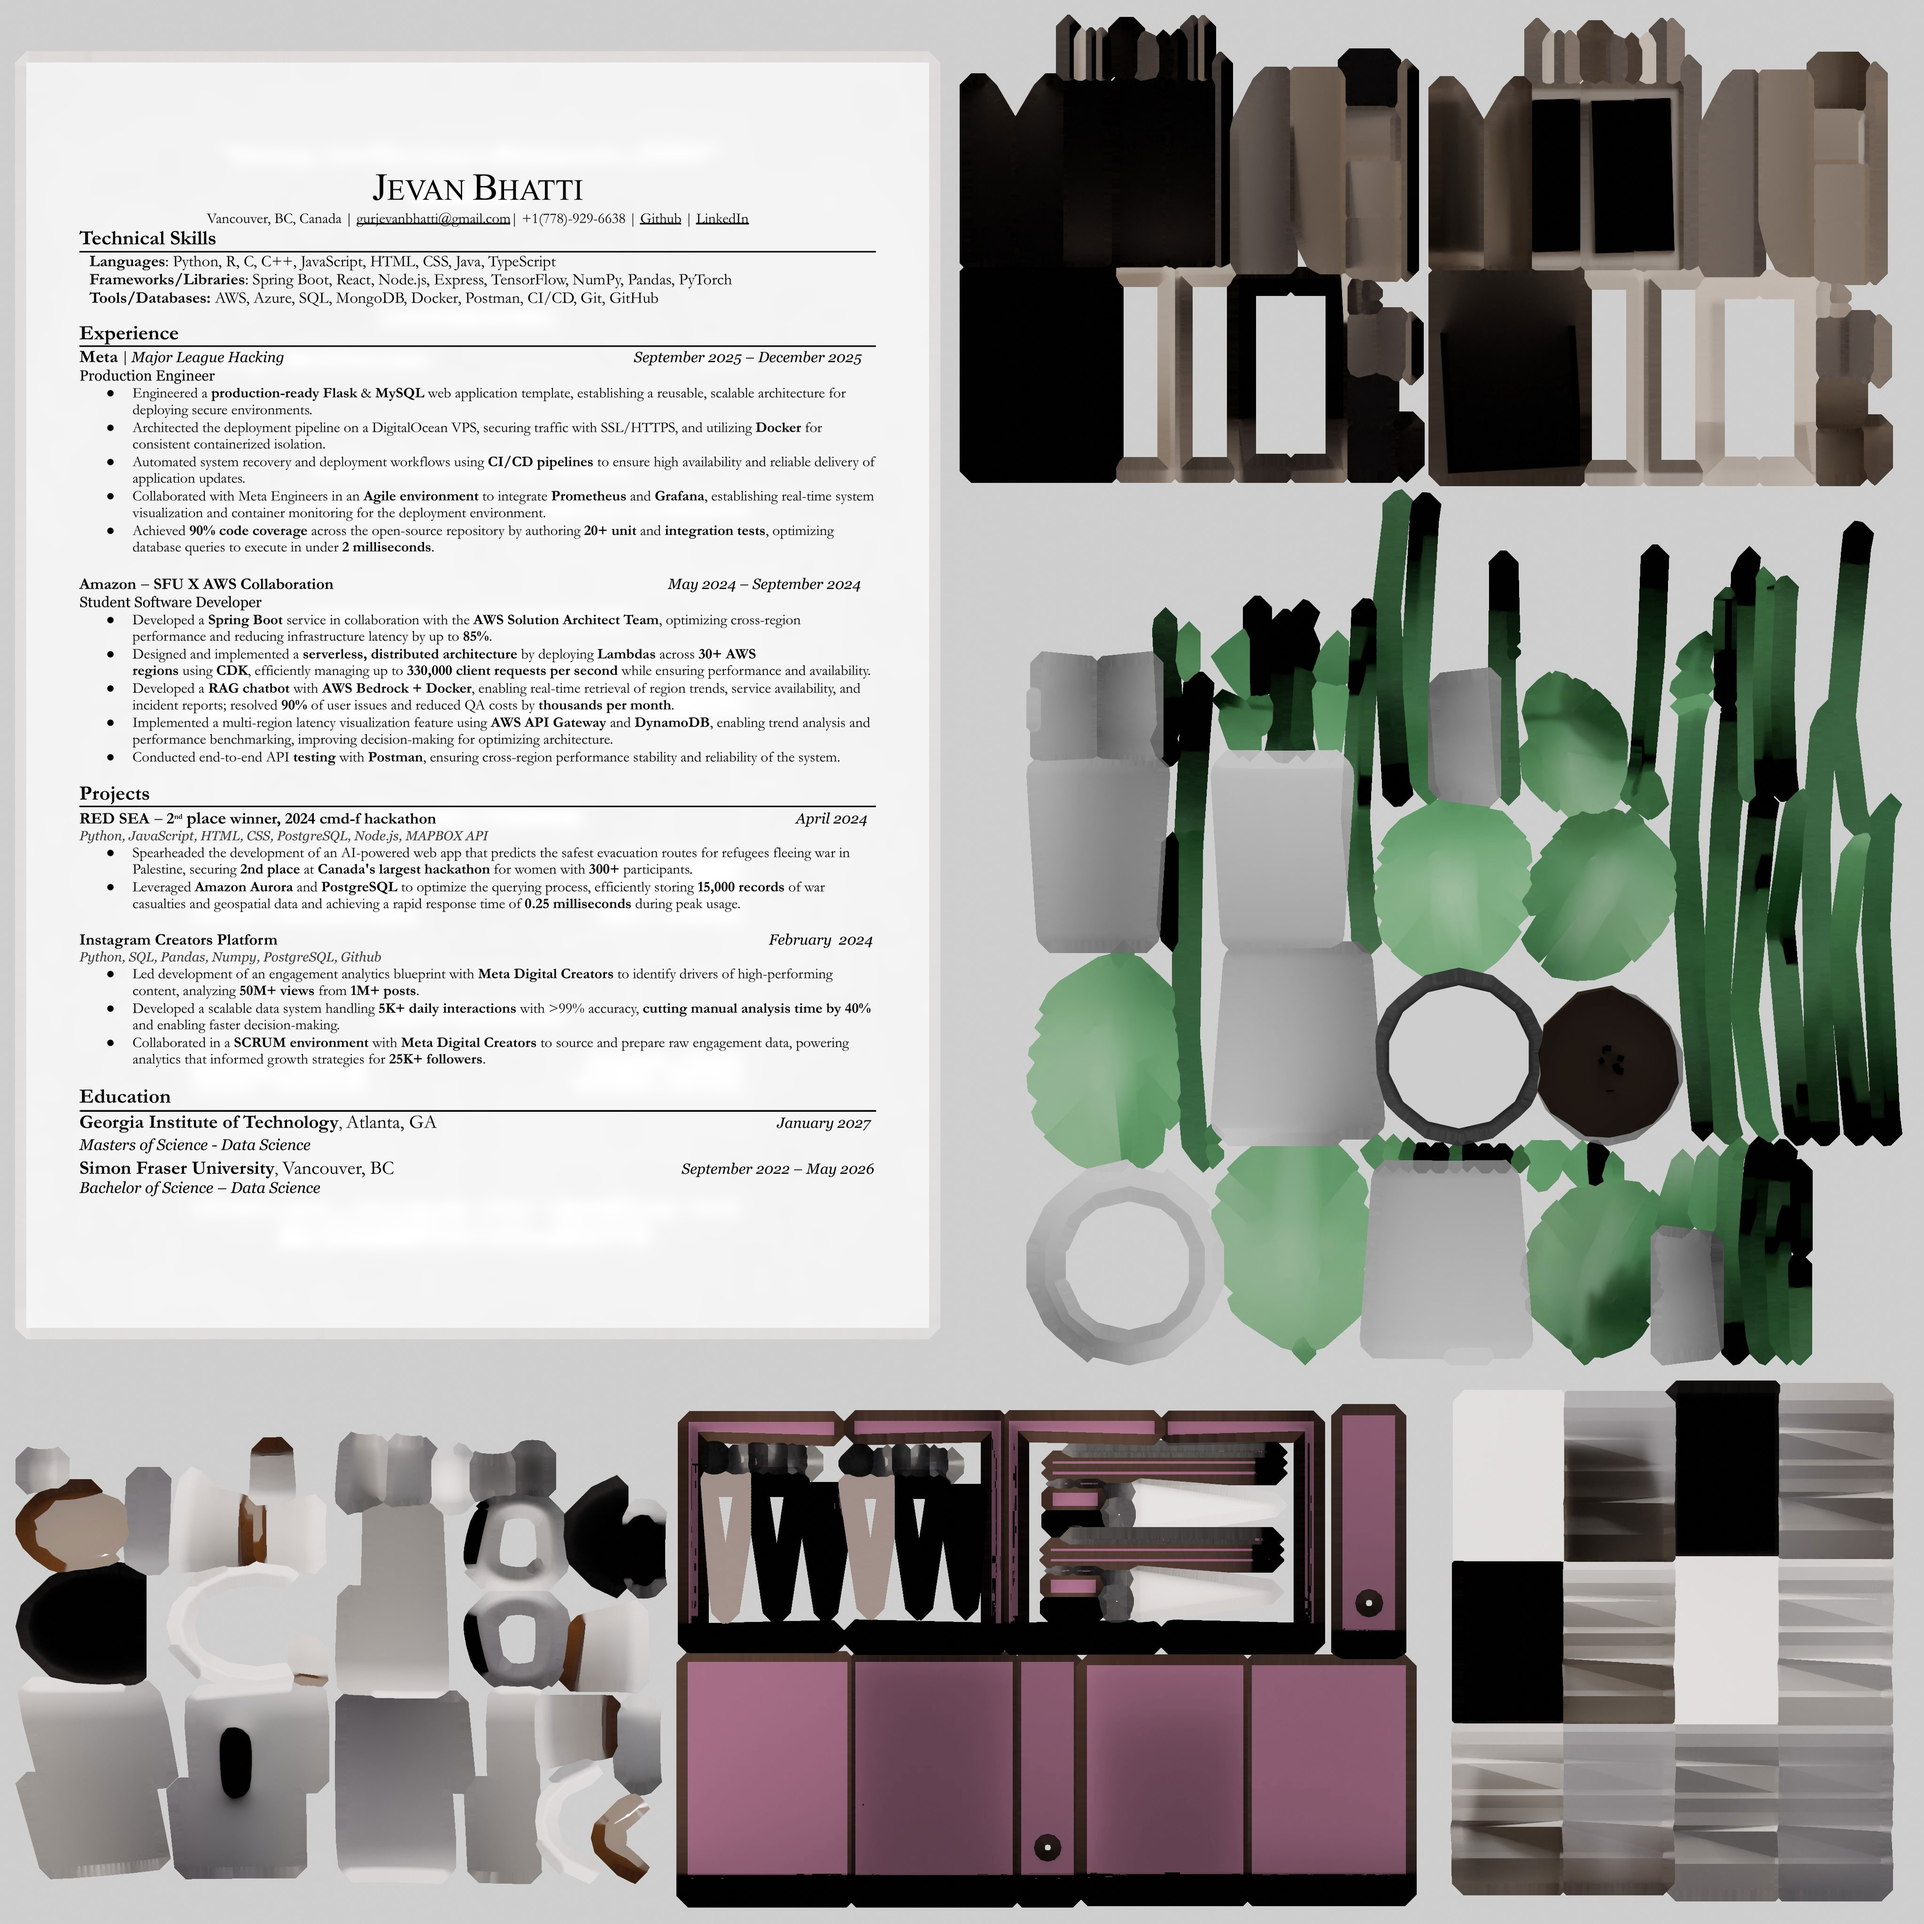
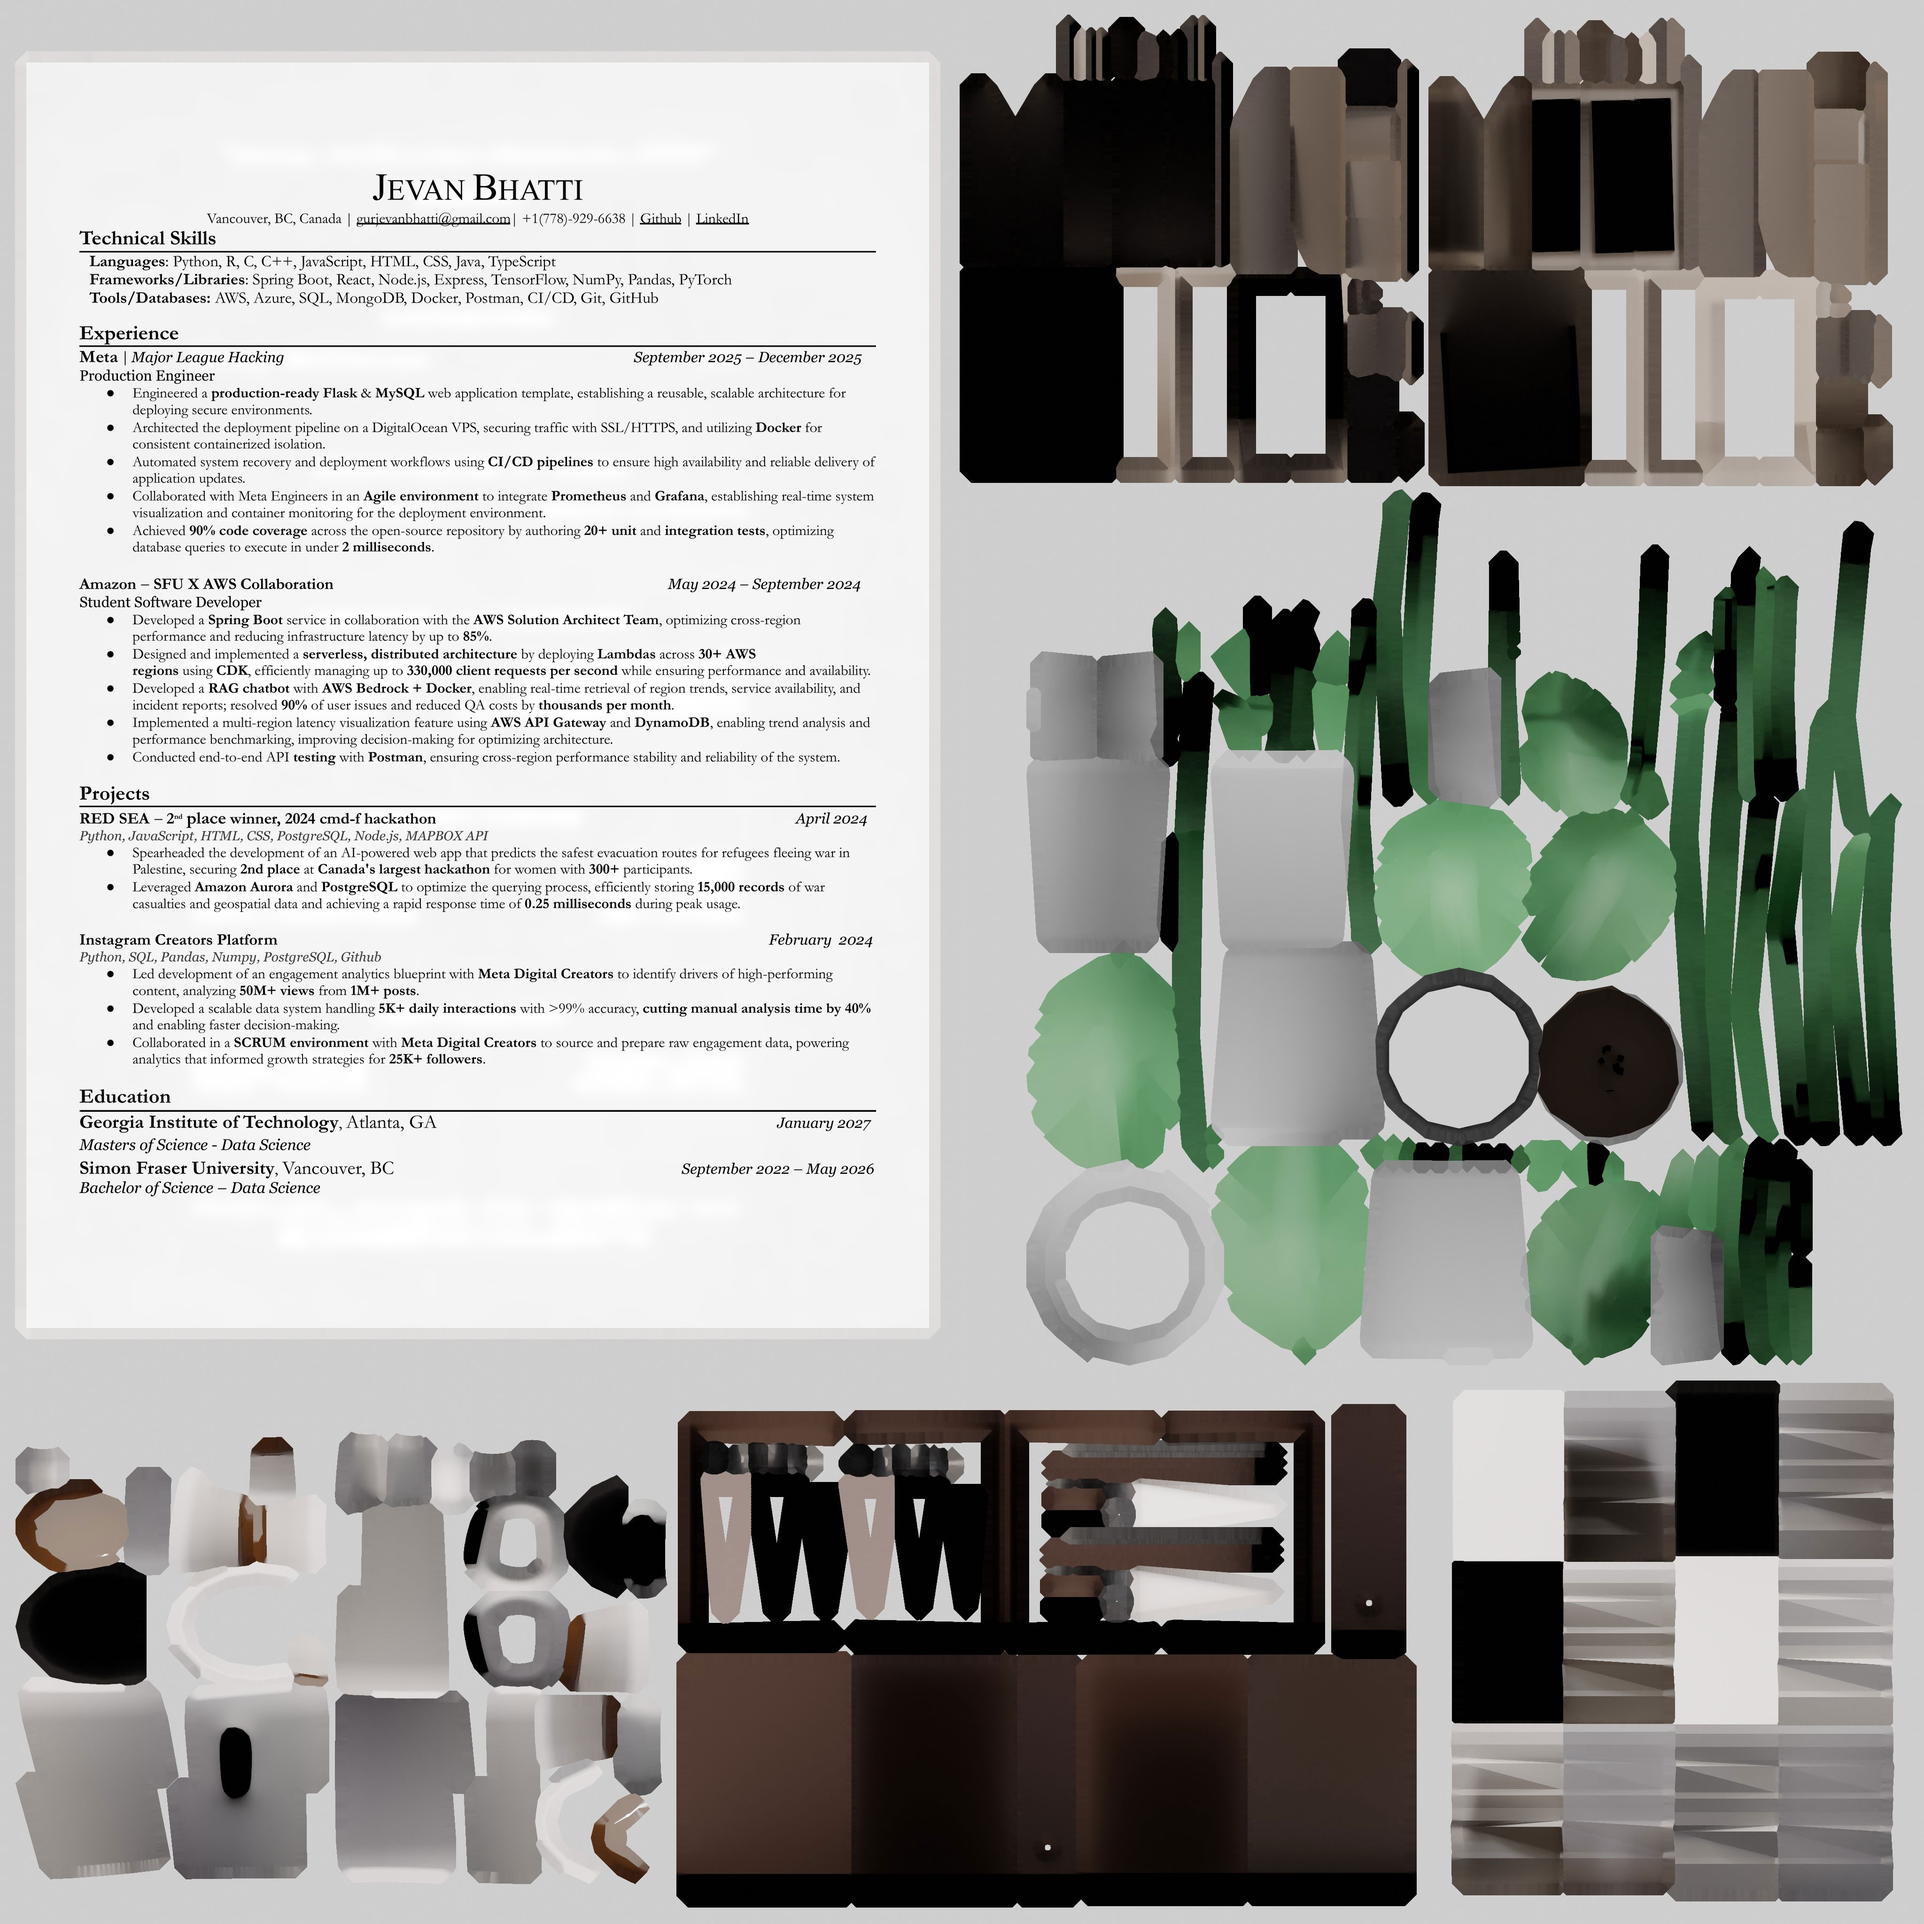
Pink computer and updated environment textures

Changed region(s): [[0.3438, 0.7188, 0.75, 1.0]]

diff --git a/src/Application/UI/components/LoadingScreen.tsx b/src/Application/UI/components/LoadingScreen.tsx
@@ -227,7 +227,7 @@ const LoadingScreen: React.FC<LoadingProps> = () => {
                     <p>But do enjoy what I have done so far :)</p>
                     <div style={styles.spacer} />
                     <div style={styles.spacer} /> */}
-                    <p>Jevan Bhatti Portfolio Showcase 2026</p>
+                    <p>Welcome to Jevan Bhatti's Portfolio Showcase 2026</p>
                     {mobileWarning && (
                         <>
                             <br />
